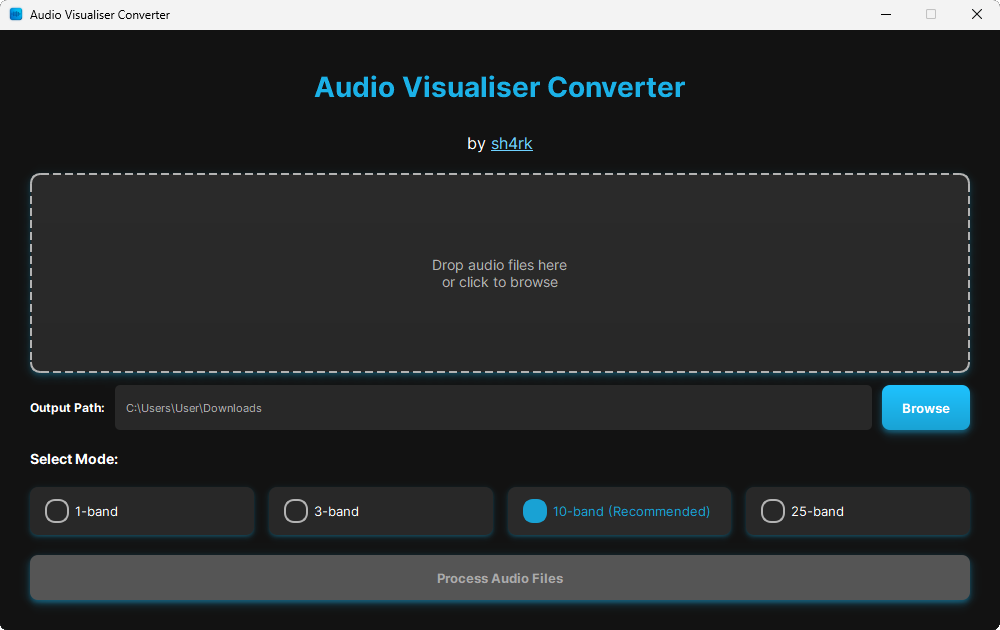
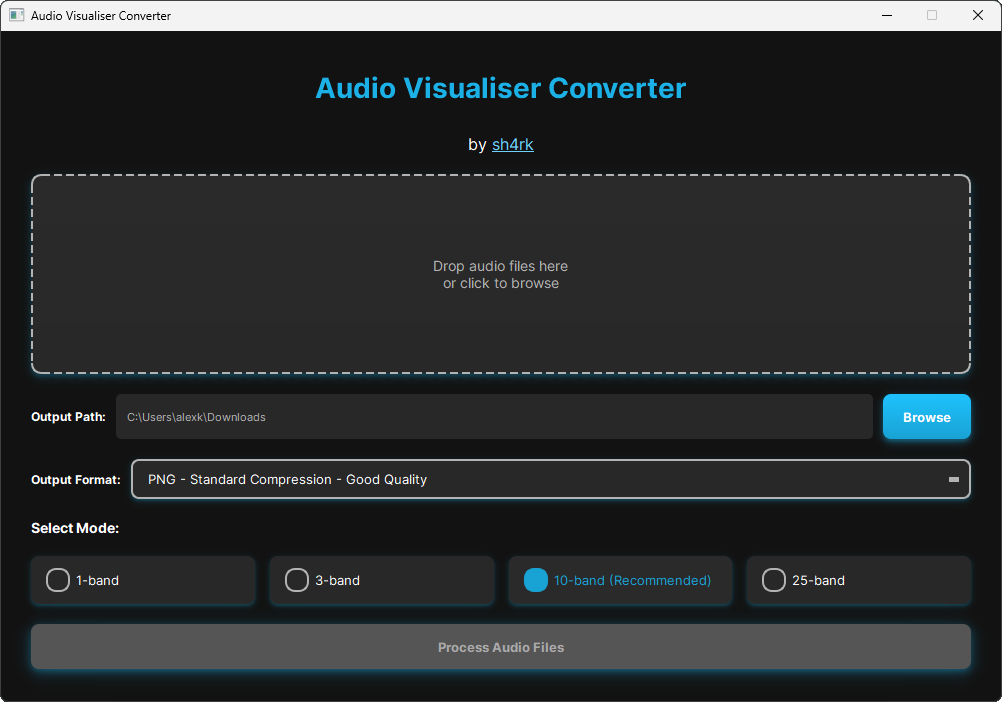
Enhanced

diff --git a/Visualiser_Script.py b/Visualiser_Script.py
@@ -10,14 +10,11 @@ from tqdm import tqdm
 import time
 from PyQt5.QtWidgets import (QApplication, QMainWindow, QWidget, QVBoxLayout, QHBoxLayout,
                              QPushButton, QLabel, QFileDialog, QProgressBar, QButtonGroup,
-                             QRadioButton, QFrame, QSizePolicy, QMessageBox, QGraphicsDropShadowEffect)
+                             QRadioButton, QFrame, QSizePolicy, QMessageBox, QGraphicsDropShadowEffect, QComboBox)
 from PyQt5.QtCore import (Qt, QSize, QPropertyAnimation, QEasingCurve, QPoint, 
                           pyqtProperty, QThread, pyqtSignal, QTimer, QUrl)
 from PyQt5.QtGui import (QFont, QPalette, QColor, QRadialGradient, QPainter, QIcon,
                          QPainterPath, QBrush, QLinearGradient, QDesktopServices, QPixmap)
-
-
-
 
 def resource_path(relative_path):
     try:
@@ -178,6 +175,64 @@ class ModernRadioButton(QRadioButton):
         super().nextCheckState()
         self.update_style()
 
+class ModernComboBox(QComboBox):
+    def __init__(self, parent=None):
+        super().__init__(parent)
+        self.setFont(QFont("Inter", 10))
+        self.setMinimumHeight(40)
+        
+        shadow = QGraphicsDropShadowEffect()
+        shadow.setBlurRadius(10)
+        shadow.setColor(QColor(25, 162, 212, 100))
+        shadow.setOffset(0, 2)
+        self.setGraphicsEffect(shadow)
+        
+        self.update_style()
+        
+    def update_style(self):
+        self.setStyleSheet("""
+            QComboBox {
+                background-color: #282828;
+                color: #FFFFFF;
+                border: 2px solid #B3B3B3;
+                border-radius: 8px;
+                padding: 8px 15px;
+                font-weight: normal;
+            }
+            QComboBox:hover {
+                border-color: #19a2d4;
+                color: #19a2d4;
+            }
+            QComboBox::drop-down {
+                border: none;
+                width: 30px;
+            }
+            QComboBox::down-arrow {
+                image: none;
+                border-left: 5px solid transparent;
+                border-right: 5px solid transparent;
+                border-top: 5px solid #B3B3B3;
+                width: 0px;
+                height: 0px;
+            }
+            QComboBox QAbstractItemView {
+                background-color: #282828;
+                color: #FFFFFF;
+                border: 2px solid #19a2d4;
+                border-radius: 8px;
+                selection-background-color: #19a2d4;
+                outline: none;
+            }
+            QComboBox QAbstractItemView::item {
+                padding: 8px 15px;
+                border-bottom: 1px solid #333333;
+            }
+            QComboBox QAbstractItemView::item:selected {
+                background-color: #19a2d4;
+                color: #FFFFFF;
+            }
+        """)
+
 class DropArea(QLabel):
     def __init__(self, parent=None):
         super().__init__(parent)
@@ -262,11 +317,12 @@ class ProcessingThread(QThread):
     progress_updated = pyqtSignal(int, str)
     processing_finished = pyqtSignal(bool, str)
     
-    def __init__(self, audio_files, output_path, preset_choice, parent=None):
+    def __init__(self, audio_files, output_path, preset_choice, output_format, parent=None):
         super().__init__(parent)
         self.audio_files = audio_files
         self.output_path = output_path
         self.preset_choice = preset_choice
+        self.output_format = output_format
         self.is_running = True
         
     def run(self):
@@ -318,7 +374,9 @@ class ProcessingThread(QThread):
                 
                 waveform_png = f"{temp_folder}/{safe_name}_waveform.png"
                 resized_png = f"{temp_folder}/{safe_name}_resized.png"
-                output_file = f"{safe_name}_Waveform_1b.png"
+                
+                format_ext = self.get_format_extension()
+                output_file = f"{safe_name}_Waveform_1b.{format_ext}"
                 
                 try:
                     subprocess.run(
@@ -334,8 +392,9 @@ class ProcessingThread(QThread):
                     if process_waveform_image(waveform_png, resized_png, 8000):
                         with Image.open(resized_png) as img:
                             rgb_img = img.convert('RGB')
-                            stretched_img = rgb_img.resize((8000, 10), Image.Resampling.BILINEAR)
-                            stretched_img.save(output_file)
+                            stretched_img = rgb_img.resize((8000, 10), Image.Resampling.NEAREST)
+                            
+                            self.save_image_in_format(stretched_img, output_file)
                     else:
                         return False
                         
@@ -361,7 +420,7 @@ class ProcessingThread(QThread):
                 filter_complex += f",asplit={config['bands']}"
                 for i in range(1, config['bands'] + 1):
                     filter_complex += f"[in{i}]"
-                filter_complex += ";"
+                filter_complex += ";" 
                 
                 for i in range(1, config['bands'] + 1):
                     filter_complex += f"[in{i}]{config['filters'][i-1]}[out{i}];"
@@ -412,20 +471,32 @@ class ProcessingThread(QThread):
                     resized_images.append(None)
             
             if any(resized_images):
-                final_image = Image.new('RGB' if config['bands'] == 3 else 'L', (width, config['bands']))
-                for y, img_path in enumerate(resized_images):
-                    if img_path and os.path.exists(img_path):
-                        try:
-                            with Image.open(img_path) as band_img:
-                                final_image.paste(band_img, (0, y))
-                        except Exception:
-                            pass
-                
                 if config['bands'] == 3:
-                    final_image = final_image.resize((width, 10), Image.Resampling.BILINEAR)
+                    final_image = Image.new('RGB', (width, config['bands']))
+                    for y, img_path in enumerate(resized_images):
+                        if img_path and os.path.exists(img_path):
+                            try:
+                                with Image.open(img_path) as band_img:
+                                    band_img = band_img.convert('RGB')
+                                    final_image.paste(band_img, (0, y))
+                            except Exception:
+                                pass
+                    final_image = final_image.resize((width, 10), Image.Resampling.NEAREST)
+                else:
+                    final_image = Image.new('L', (width, config['bands']))
+                    for y, img_path in enumerate(resized_images):
+                        if img_path and os.path.exists(img_path):
+                            try:
+                                with Image.open(img_path) as band_img:
+                                    band_img = band_img.convert('L')
+                                    final_image.paste(band_img, (0, y))
+                            except Exception:
+                                pass
                 
-                output_file = f"{safe_name}_Waveform_{config['bands']}b.png"
-                final_image.save(output_file)
+                format_ext = self.get_format_extension()
+                output_file = f"{safe_name}_Waveform_{config['bands']}b.{format_ext}"
+                
+                self.save_image_in_format(final_image, output_file)
             
             for f in os.listdir(temp_folder):
                 if f.startswith(f"{safe_name}_"):
@@ -447,6 +518,39 @@ class ProcessingThread(QThread):
             except:
                 pass
             return False
+    
+    def get_format_extension(self):
+        """Get file extension based on selected format"""
+        format_map = {
+            0: "png",
+            1: "png",
+            2: "jpg",
+            3: "jpg",
+        }
+        return format_map.get(self.output_format, "png")
+    
+    def save_image_in_format(self, image, output_path):
+        """Save image in the selected format with appropriate settings"""
+        try:
+            if output_path.endswith('.png'):
+                if self.output_format == 0:
+                    image.save(output_path, format='PNG', compress_level=0)
+                else:
+                    image.save(output_path, format='PNG', compress_level=6)
+                    
+            elif output_path.endswith('.jpg'):
+                if image.mode != 'RGB':
+                    image = image.convert('RGB')
+                    
+                if self.output_format == 2:
+                    image.save(output_path, format='JPEG', quality=95, optimize=True)
+                else:
+                    image.save(output_path, format='JPEG', quality=30, optimize=True)
+                    
+        except Exception as e:
+            print(f"Error saving image in format: {e}")
+            fallback_path = output_path.split('.')[0] + '.png'
+            image.save(fallback_path, format='PNG')
 
 class AudioVisualizerGUI(QMainWindow):
     def __init__(self):
@@ -454,6 +558,7 @@ class AudioVisualizerGUI(QMainWindow):
         self.audio_files = []
         self.output_path = os.path.join(os.path.expanduser("~"), "Downloads")
         self.preset_choice = '3'
+        self.output_format = 1
         self.processing_thread = None
         self.progress_animation = None
         self.progress_timer = QTimer()
@@ -464,7 +569,7 @@ class AudioVisualizerGUI(QMainWindow):
         
     def setup_ui(self):
         self.setWindowTitle("Audio Visualiser Converter")
-        self.setFixedSize(1000, 600)
+        self.setFixedSize(1000, 670)
         try:
             icon_path = resource_path("Visualiser_Logo.png")
 
@@ -501,7 +606,7 @@ class AudioVisualizerGUI(QMainWindow):
         
         creator_label = QLabel(
             '<span style="color: white;">by </span>'
-            '<a href="https://sh4rkk.com/" style="color:#6ed1ff; text-decoration: underline;">sh4rk</a>'
+            '<a href="https://sh4rkk.com/shop" style="color:#6ed1ff; text-decoration: underline;">sh4rk</a>'
         )
         creator_label.setAlignment(Qt.AlignCenter)
         creator_label.setOpenExternalLinks(True)
@@ -539,6 +644,28 @@ class AudioVisualizerGUI(QMainWindow):
         output_layout.addWidget(self.browse_button)
         
         main_layout.addLayout(output_layout)
+        
+        format_layout = QHBoxLayout()
+        format_layout.setSpacing(10)
+        
+        format_label = QLabel("Output Format:")
+        format_label.setStyleSheet("color: #FFFFFF; font-size: 12px; font-weight: bold;")
+        format_label.setFont(QFont("Inter", 12, QFont.Bold))
+        format_layout.addWidget(format_label)
+        
+        self.format_combo = ModernComboBox()
+        formats = [
+            "PNG HQ - Lossless Compression - Highest Quality",
+            "PNG - Standard Compression - Good Quality", 
+            "JPG - 95% Quality - Noisy, Fast",
+            "JPG LQ - 30% Quality - Very Noisy, Fastest"
+        ]
+        self.format_combo.addItems(formats)
+        self.format_combo.setCurrentIndex(1)
+        self.format_combo.currentIndexChanged.connect(self.format_changed)
+        format_layout.addWidget(self.format_combo, 1)
+        
+        main_layout.addLayout(format_layout)
         
         preset_label = QLabel("Select Mode:")
         preset_label.setStyleSheet("color: #FFFFFF; font-size: 14px; font-weight: bold;")
@@ -588,6 +715,9 @@ class AudioVisualizerGUI(QMainWindow):
             }}
         """)
         
+    def format_changed(self, index):
+        self.output_format = index
+        
     def update_radio_styles(self):
         for btn in [self.preset_1, self.preset_2, self.preset_3, self.preset_4]:
             btn.update_style()
@@ -614,17 +744,34 @@ class AudioVisualizerGUI(QMainWindow):
     def handle_dropped_files(self, file_paths):
         try:
             extensions = ('.mp3', '.flac', '.ogg', '.wav', '.m4a')
-            self.audio_files = [f for f in file_paths if f.lower().endswith(extensions)]
+            valid_files = [f for f in file_paths if f.lower().endswith(extensions)]
+            
+            if not valid_files:
+                self.drop_area.setText("No valid audio files found.\nDrop audio files here\nor click to browse")
+                self.process_button.setEnabled(False)
+                return
+                
+            for file_path in valid_files:
+                if file_path not in self.audio_files:
+                    self.audio_files.append(file_path)
             
             if self.audio_files:
-                first_file_dir = os.path.dirname(self.audio_files[0])
-                self.output_path = first_file_dir
-                self.output_path_label.setText(first_file_dir)
+                file_dirs = set(os.path.dirname(f) for f in self.audio_files)
+                
+                if len(file_dirs) == 1:
+                    self.output_path = list(file_dirs)[0]
+                else:
+                    self.output_path = os.path.join(os.path.expanduser("~"), "Downloads")
+                
+                self.output_path_label.setText(self.output_path)
                 
                 file_names = [os.path.basename(f) for f in self.audio_files]
-                display_text = f"{len(self.audio_files)} file(s) selected:\n" + "\n".join(file_names[:3])
-                if len(self.audio_files) > 3:
-                    display_text += "\n..."
+                
+                if len(file_names) <= 3:
+                    display_text = f"{len(self.audio_files)} file(s) selected:\n" + "\n".join(file_names)
+                else:
+                    display_text = f"{len(self.audio_files)} file(s) selected:\n" + "\n".join(file_names[:3]) + f"\n+{len(file_names) - 3} more"
+                
                 self.drop_area.setText(display_text)
                 self.process_button.setEnabled(True)
             else:
@@ -648,16 +795,21 @@ class AudioVisualizerGUI(QMainWindow):
         selected_button = self.preset_group.checkedButton()
         if selected_button == self.preset_1:
             self.preset_choice = '1'
-            self.animation_duration = 400
+            base_duration = 900
         elif selected_button == self.preset_2:
             self.preset_choice = '2'
-            self.animation_duration = 125
+            base_duration = 1850
         elif selected_button == self.preset_3:
             self.preset_choice = '3'
-            self.animation_duration = 1500
+            base_duration = 2000
         elif selected_button == self.preset_4:
             self.preset_choice = '4'
-            self.animation_duration = 4000
+            base_duration = 4500
+            
+        if self.output_format == 0:
+            base_duration += 200
+            
+        self.animation_duration = base_duration * len(self.audio_files)
             
         self.drop_area.setEnabled(False)
         self.browse_button.setEnabled(False)
@@ -676,7 +828,7 @@ class AudioVisualizerGUI(QMainWindow):
         
         self.progress_timer.start(int(self.progress_interval))
         
-        self.processing_thread = ProcessingThread(self.audio_files, self.output_path, self.preset_choice)
+        self.processing_thread = ProcessingThread(self.audio_files, self.output_path, self.preset_choice, self.output_format)
         self.processing_thread.progress_updated.connect(self.update_progress)
         self.processing_thread.processing_finished.connect(self.processing_finished)
         self.processing_thread.start()
